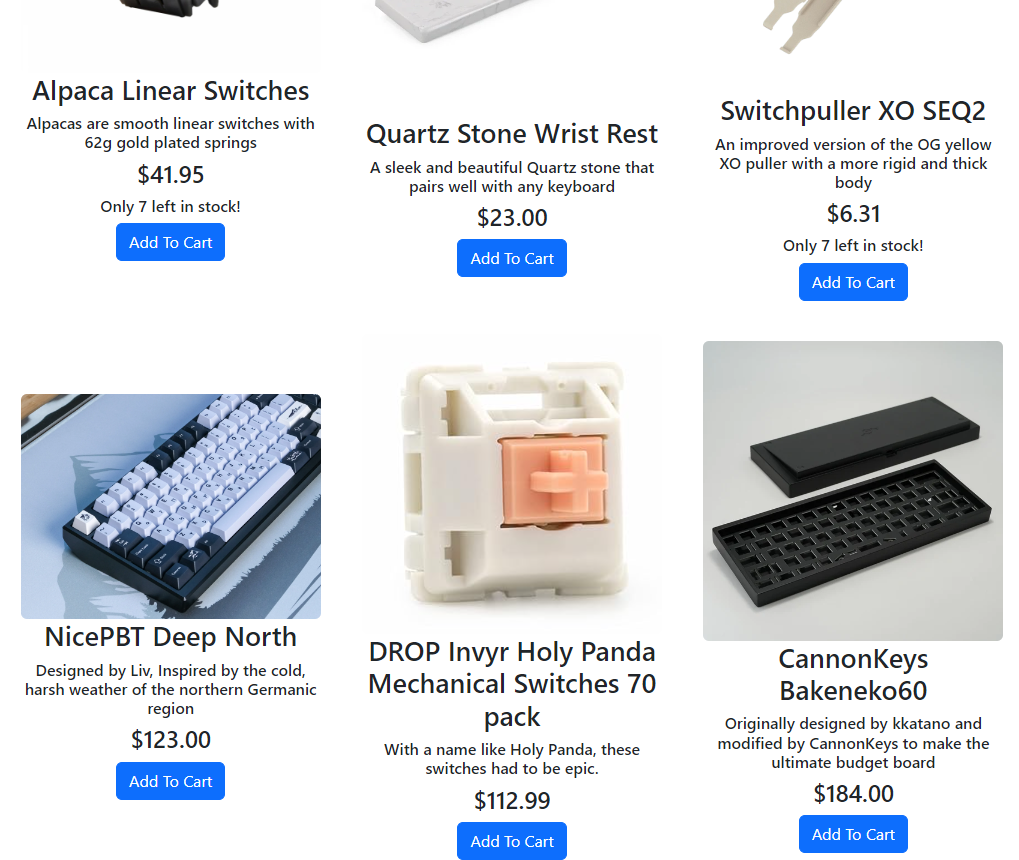
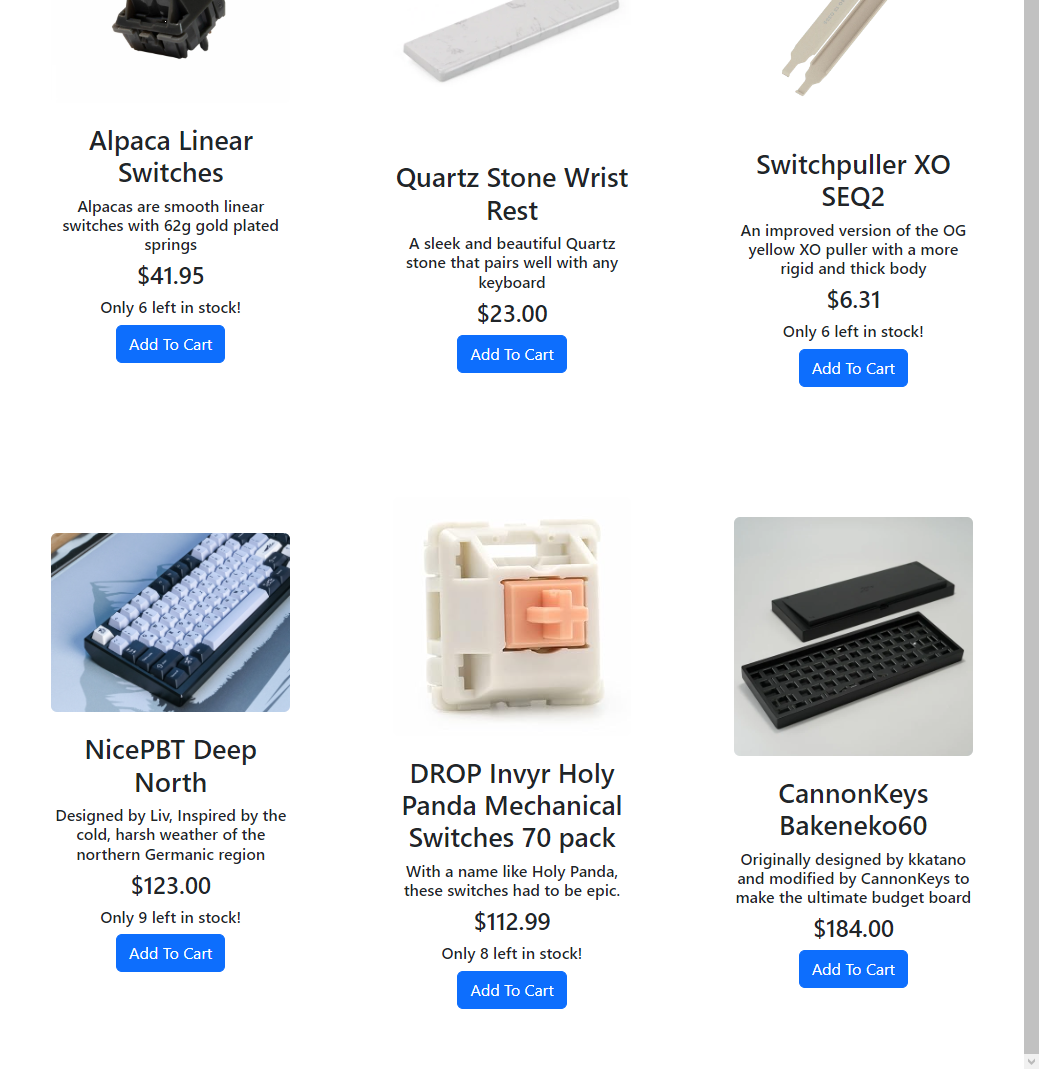
Modified CSS files and retook images

diff --git a/client/react-app/src/pages/shop/style.css b/client/react-app/src/pages/shop/style.css
@@ -52,7 +52,7 @@
 .products {
   margin: 0 auto;
   width: 100%;
-  height: 500px;
+  height: auto;
   display: grid;
   grid-template-columns: 1fr 1fr 1fr;
   place-items: center;
@@ -60,16 +60,22 @@
 }
 
 .product {
-  width: 300px;
-  height: 300px;
-  margin: 125px 0;
+  width: 70%;
+  margin: 50px 0;
   display: flex;
   flex-direction: column;
   justify-content: center;
   align-items: center;
 }
 
+.product img {
+  width: 100%; /* Ensure the image takes up the full width of its container */
+  height: 100%; /* Ensure the image takes up the full height of its container */
+  object-fit: cover; /* Maintain aspect ratio while covering the container */
+}
+
 .product .description {
+  margin-top: 20px;
   text-align: center;
 }
 

diff --git a/client/react-app/src/pages/purchased/style.css b/client/react-app/src/pages/purchased/style.css
@@ -2,8 +2,12 @@
   text-align: center;
 }
 
+.purchased-items-page h1 {
+  margin-top: 20px;
+}
+
 .purchased-items {
-  margin-top: 100px;
+  margin-top: 50px;
   width: 100%;
   height: auto;
   display: grid;
@@ -12,18 +16,19 @@
 }
 
 .purchased-items .item {
-  width: 225px;
-  height: 225px;
+  width: 80%;
   display: flex;
   flex-direction: column;
   align-items: center;
   justify-content: center;
   text-align: center;
-  margin: 130px 0;
+  margin: 10px 0;
 }
 
 .purchased-items .item img {
   width: 100%;
+  height: 100%;
+  object-fit: cover;
 }
 
 .price {

diff --git a/client/react-app/src/components/product.tsx b/client/react-app/src/components/product.tsx
@@ -36,7 +36,7 @@ export const Product = (props: Props) => {
         </>
       ) : (
         <div className="stockQuantity">
-          <h1>OUT OF STOCK</h1>
+          <h2>OUT OF STOCK</h2>
         </div>
       )}
     </div>
